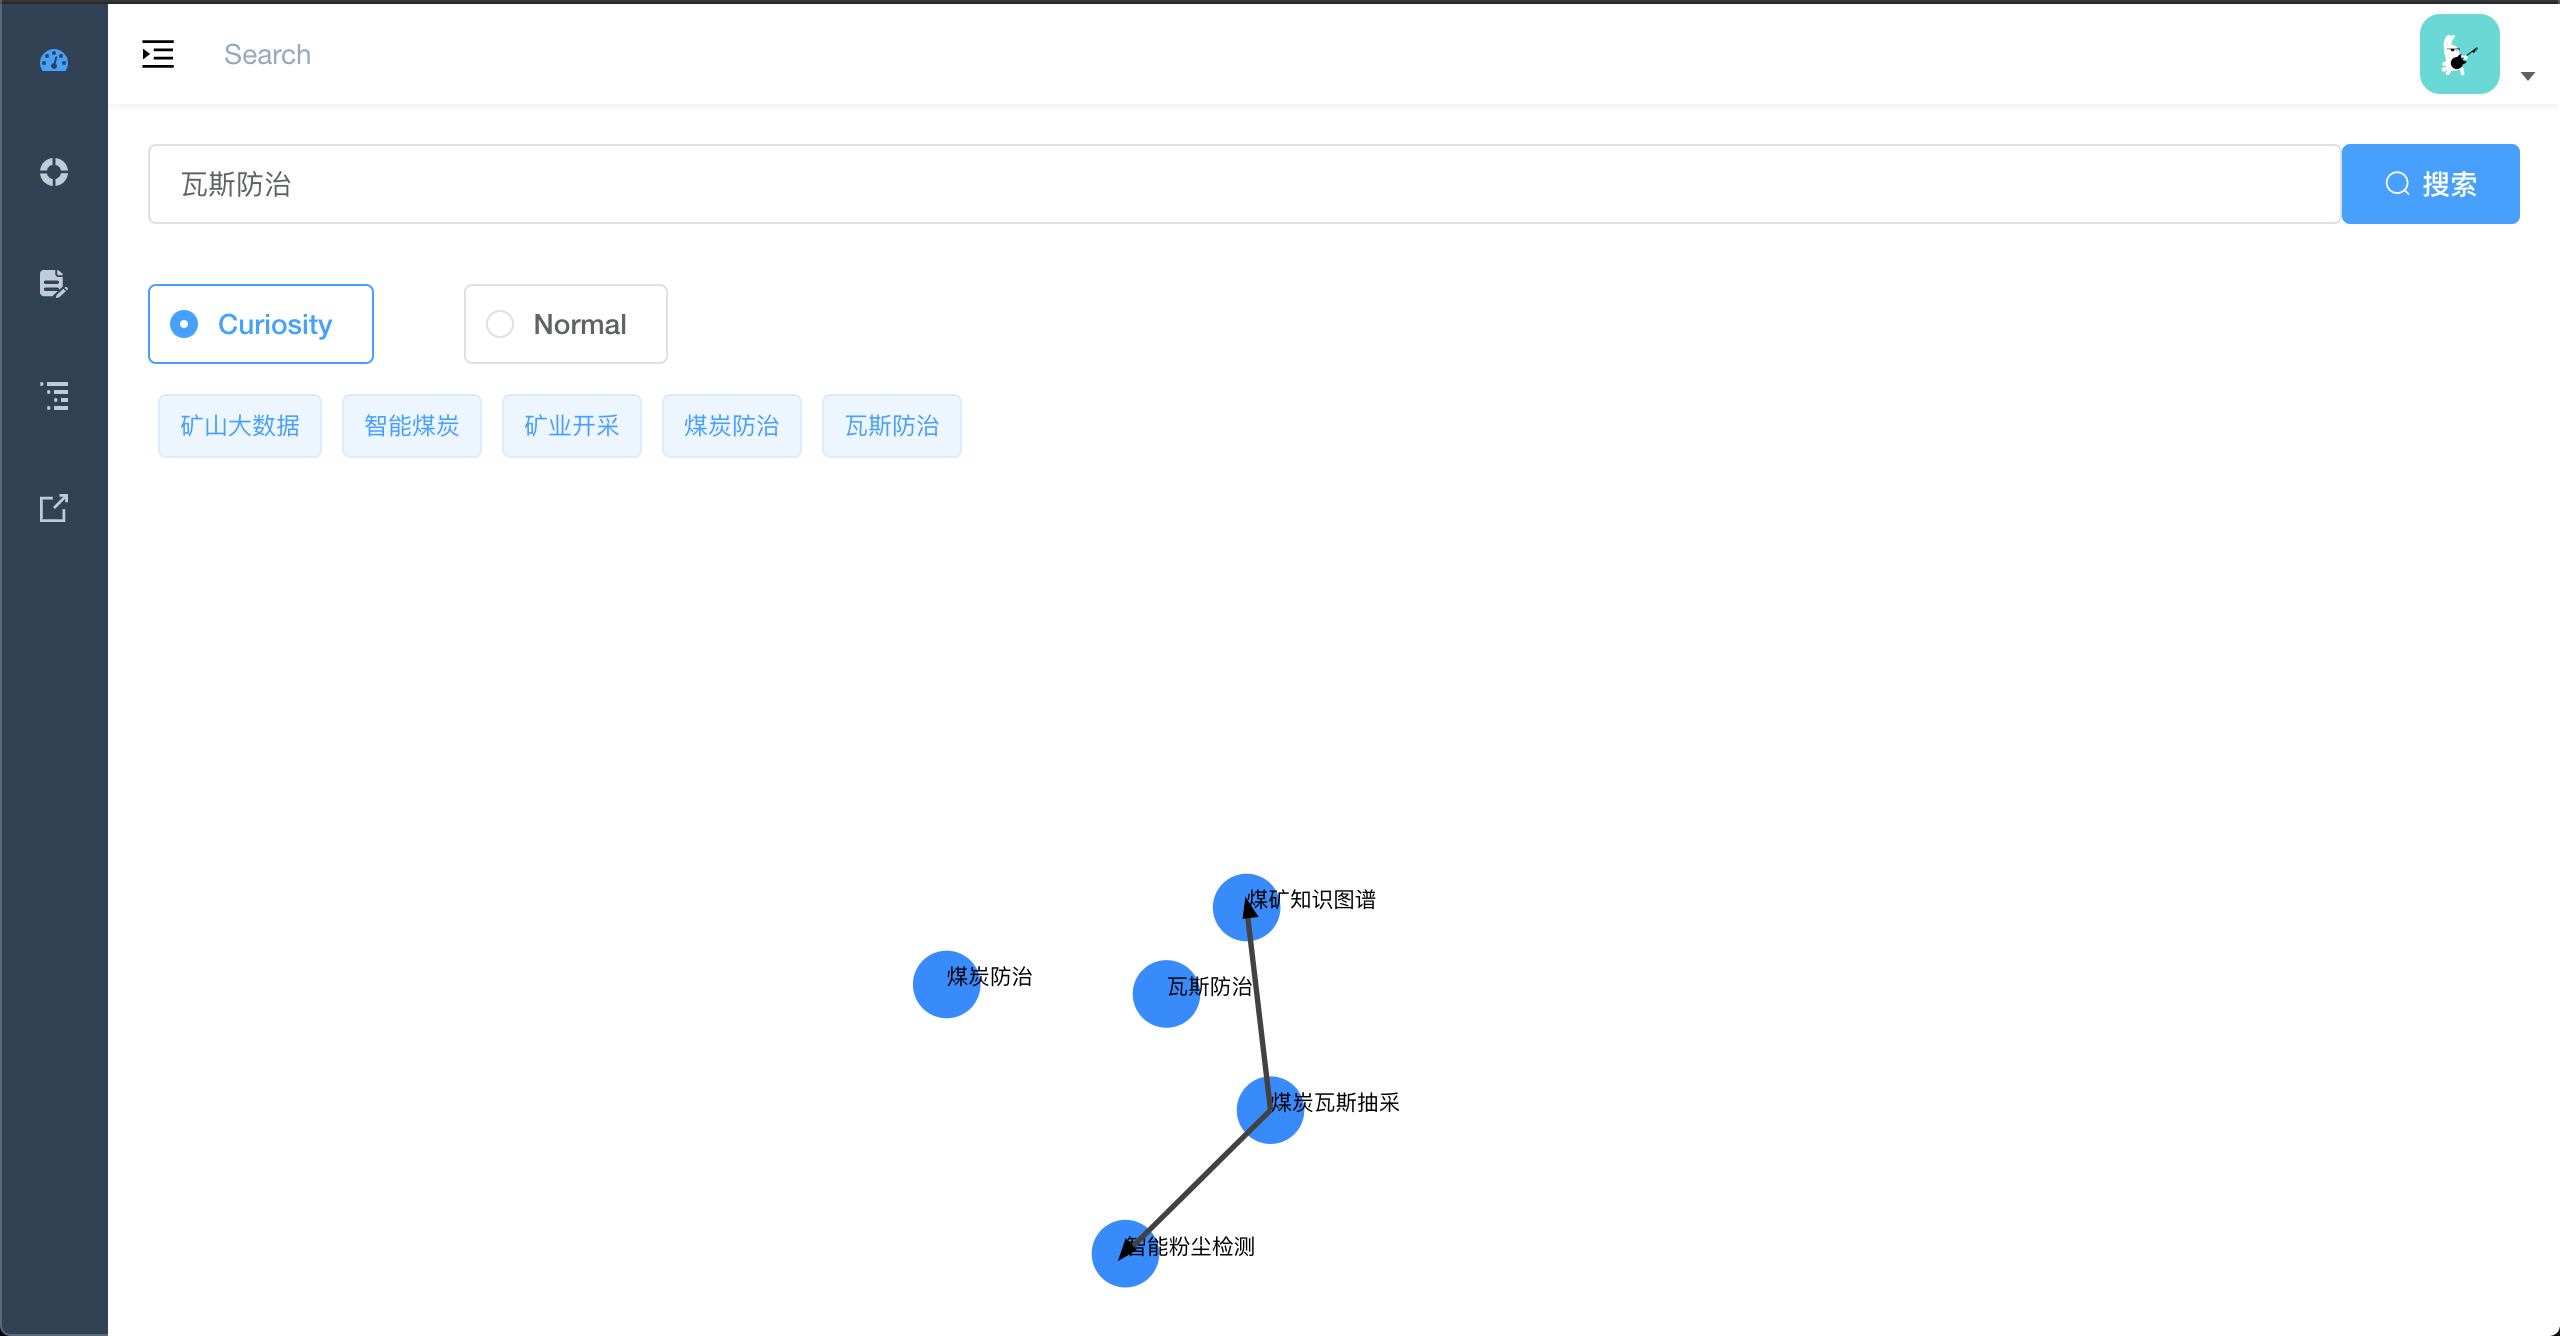
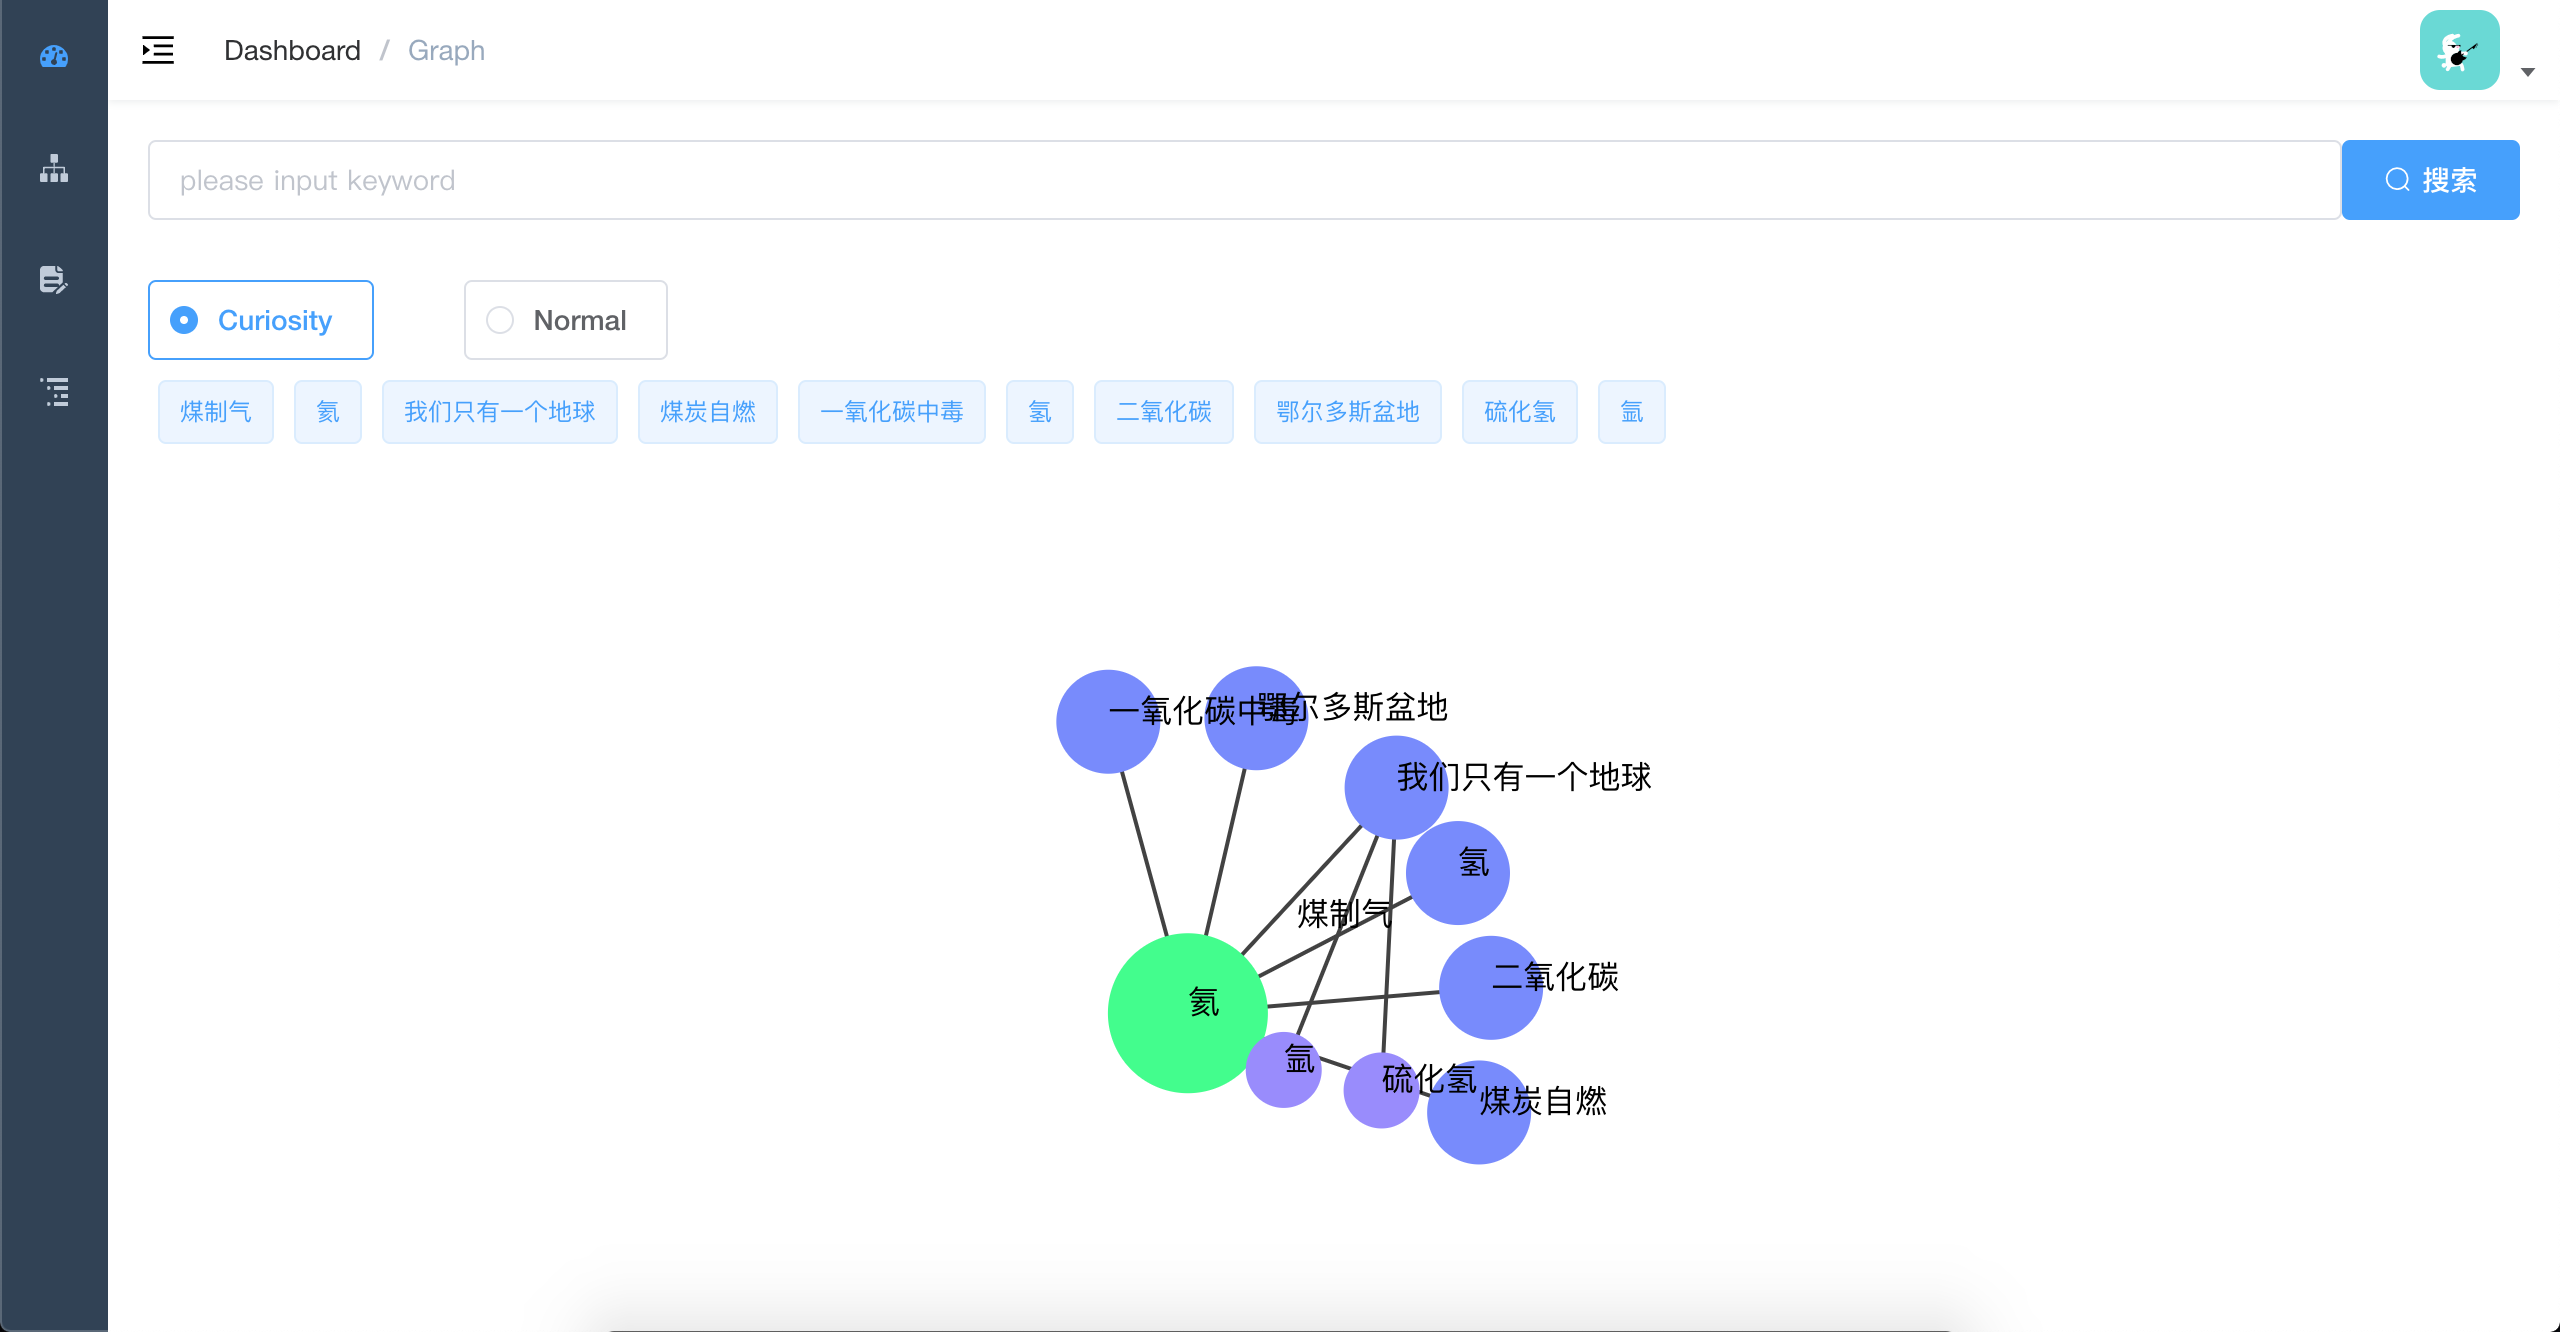
curiosity

diff --git a/src/views/dashboard/curiosity.vue b/src/views/dashboard/curiosity.vue
@@ -1,40 +1,107 @@
 <template>
   <div class="dashboard-container">
-    <svg
-      class="svg"
-
-      data-type="svg"
-    >
-      <circle
-        v-for="node in nodes"
-        :key="node.uuid"
-        class="svg-circle"
-        :r="Math.random()*25"
-        :cx="node.x"
-        :cy="node.y"
-        fill="#38f"
-        data-type="circle"
-        :data-uuid="node.uuid"
-        @mousedown="drag"
-        @contextmenu.prevent="nodeMenu"
-      />
-      <line
-        v-for="path in ships"
-        :key="path.uuid"
+    <svg class="cur-svg">
+       <line
+        v-if="otherShips.length"
         class="svg-line"
+        v-for="path in otherShips"
         :x1="path.source.x"
         :y1="path.source.y"
         :x2="path.target.x"
         :y2="path.target.y"
-        data-type="line"
-        style="stroke:rgb(66,66,66);stroke-width:4"
+        style="stroke:rgb(66,66,66);stroke-width:2"
       />
+      <circle
+        class="svg-circle"
+        v-if="currentNode"
+        :currentNode="currentNode"
+        :cx="currentNode.x"
+        :cy="currentNode.y"
+        r="40"
+        fill="#3f8"
+      />
+      <circle
+        class="svg-circle"
+        v-for="node in otherNodes"
+        :key="node.index"
+        :cx="node.x"
+        :cy="node.y"
+        :r="40 - node.degree * 7"
+        :fill="`#${38 + node.degree * 20}f`"
+      />
+      <text v-for="node in nodes" :key="node.index" :x="node.x" :y="node.y">{{ node.word }}</text>
     </svg>
   </div>
 </template>
 
 <script>
-export default {
+import data from '../../api/normal_nodes'
+import { initNodes } from './init'
 
+export default {
+  data() {
+    return {
+      width: 0,
+      height: 0,
+      nodes: [],
+      ships: [],
+      currentNode: null,
+
+      otherNodes: [],
+      otherShips: []
+    }
+  },
+  mounted() {
+    this.width = document.querySelector('.dashboard-container').clientWidth
+    this.height = document.querySelector('.dashboard-container').clientHeight
+
+    const { node, relationship } = data.data
+
+    initNodes.call(this, node, relationship)
+
+    this.nodes = node
+    this.ships = relationship
+
+    this.currentNode = this.nodes[1] // 索引结点
+    let degree = 1
+    recFind.call(this, this.currentNode, this.ships)
+
+    function recFind(currentNode, ships) {
+      const newShips = []
+      const newNodes = []
+      degree++
+      ships.forEach(s => {
+        if (s.source.index === currentNode.index) {
+          s.target.degree = degree
+          newNodes.push(s.target)
+          this.otherNodes.push(s.target)
+
+          newShips.push(s)
+          this.otherShips.push(s)
+        }
+      })
+
+      newNodes.forEach(n => {
+        recFind.call(this, n, ships)
+      })
+    }
+  }
 }
 </script>
+
+<style>
+.dashboard-container {
+  display: flex;
+  flex: 1;
+}
+.cur-svg {
+  flex: 1;
+}
+.svg-circle{
+  z-index: 99;
+}
+.svg-line {
+  z-index: 1;
+}
+</style>
+

diff --git a/src/views/dashboard/normal.vue b/src/views/dashboard/normal.vue
@@ -67,7 +67,7 @@
 </template>
 
 <script>
-import { getAllGraph, ships } from './data'
+import { getAllGraph } from './data'
 import { initSize, initNodes, initNodesMap, initShips } from './init'
 import { dragStart, dragging, dragOver, setNodeMenu, updateNodesFromMap, deleteNode, updateShips, movingLink, _zoom, checkThis } from './methods'
 // import { getNodes } from './http'
@@ -117,11 +117,11 @@ export default {
   },
   mounted() {
     (async() => {
-      const nodes = (await getAllGraph()).data.node
+      const { node, relationship } = (await getAllGraph()).data
       this.initSize()
-      this.initNodes(nodes, ships)
+      this.initNodes(node, relationship)
       this.initNodesMap(this.nodes)
-      this.initShips(ships)
+      this.initShips(relationship)
     })()
     // this.$loading({ target: '.dashboard-container' })
     // this.checkThis()

diff --git a/src/views/table/index.vue b/src/views/table/index.vue
@@ -1,17 +1,20 @@
 <template>
   <div class="app-container">
     <search />
-    <normal />
+    <!-- <normal /> -->
+    <curiosity />
   </div>
 </template>
 <script>
 import search from './search'
-import normal from '../dashboard/normal'
+// import normal from '../dashboard/normal'
+import curiosity from '../dashboard/curiosity'
 
 export default {
   components: {
     search,
-    normal
+    curiosity
+    // normal
   },
   filters: {},
   data() {

diff --git a/src/views/dashboard/init.js b/src/views/dashboard/init.js
@@ -10,7 +10,7 @@ export function initSize() {
 export function initNodes(nodes, ships) {
   const simulation = forceSimulation()
     .nodes(nodes)
-    .force('link', forceLink(ships).distance(150).id(node => node.uuid))
+    .force('link', forceLink(ships).distance(150).id(node => node.index))
     .force('center', forceCenter(this.width / 2, this.height / 2))
     .force('charge', forceManyBody(0.1))
     .force('collision', forceCollide(25))

diff --git a/src/views/dashboard/RecCircle.vue b/src/views/dashboard/RecCircle.vue
@@ -1,0 +1,22 @@
+<template v-for="node in nodes">
+  <circle>11</circle>
+</template>
+
+<script>
+export default {
+  name: 'RecCircle',
+  props: {
+    nodesStack: {
+      type: Array,
+      default: () => []
+    }
+  },
+  data() {
+    return {
+      width: this.$parent.width,
+      height: this.$parent.height,
+      nodes: this.nodesStack
+    }
+  }
+}
+</script>

diff --git a/src/views/dashboard/data.js b/src/views/dashboard/data.js
@@ -1,4 +1,4 @@
-import nodes from '../../api/nodes'
+import nodes from '../../api/normal_nodes'
 
 export function getAllGraph() {
   return new Promise((resolve, reject) => {
@@ -7,15 +7,3 @@ export function getAllGraph() {
     }, 500)
   })
 }
-
-export const ships = [
-  {
-    source: 1,
-    target: 2
-  },
-  {
-    source: 1,
-    target: 3
-  }
-]
-

diff --git a/src/App.vue b/src/App.vue
@@ -9,3 +9,11 @@ export default {
   name: 'App'
 }
 </script>
+
+<style>
+.app-container {
+  display: flex;
+  flex-direction: column;
+  min-height: calc(100vh - 50px);
+}
+</style>

diff --git a/src/api/http.js b/src/api/http.js
@@ -1,4 +1,4 @@
-import nodes from './nodes'
+import nodes from './normal_nodes'
 
 export function getAllGraph() {
   return new Promise((resolve, reject) => {
